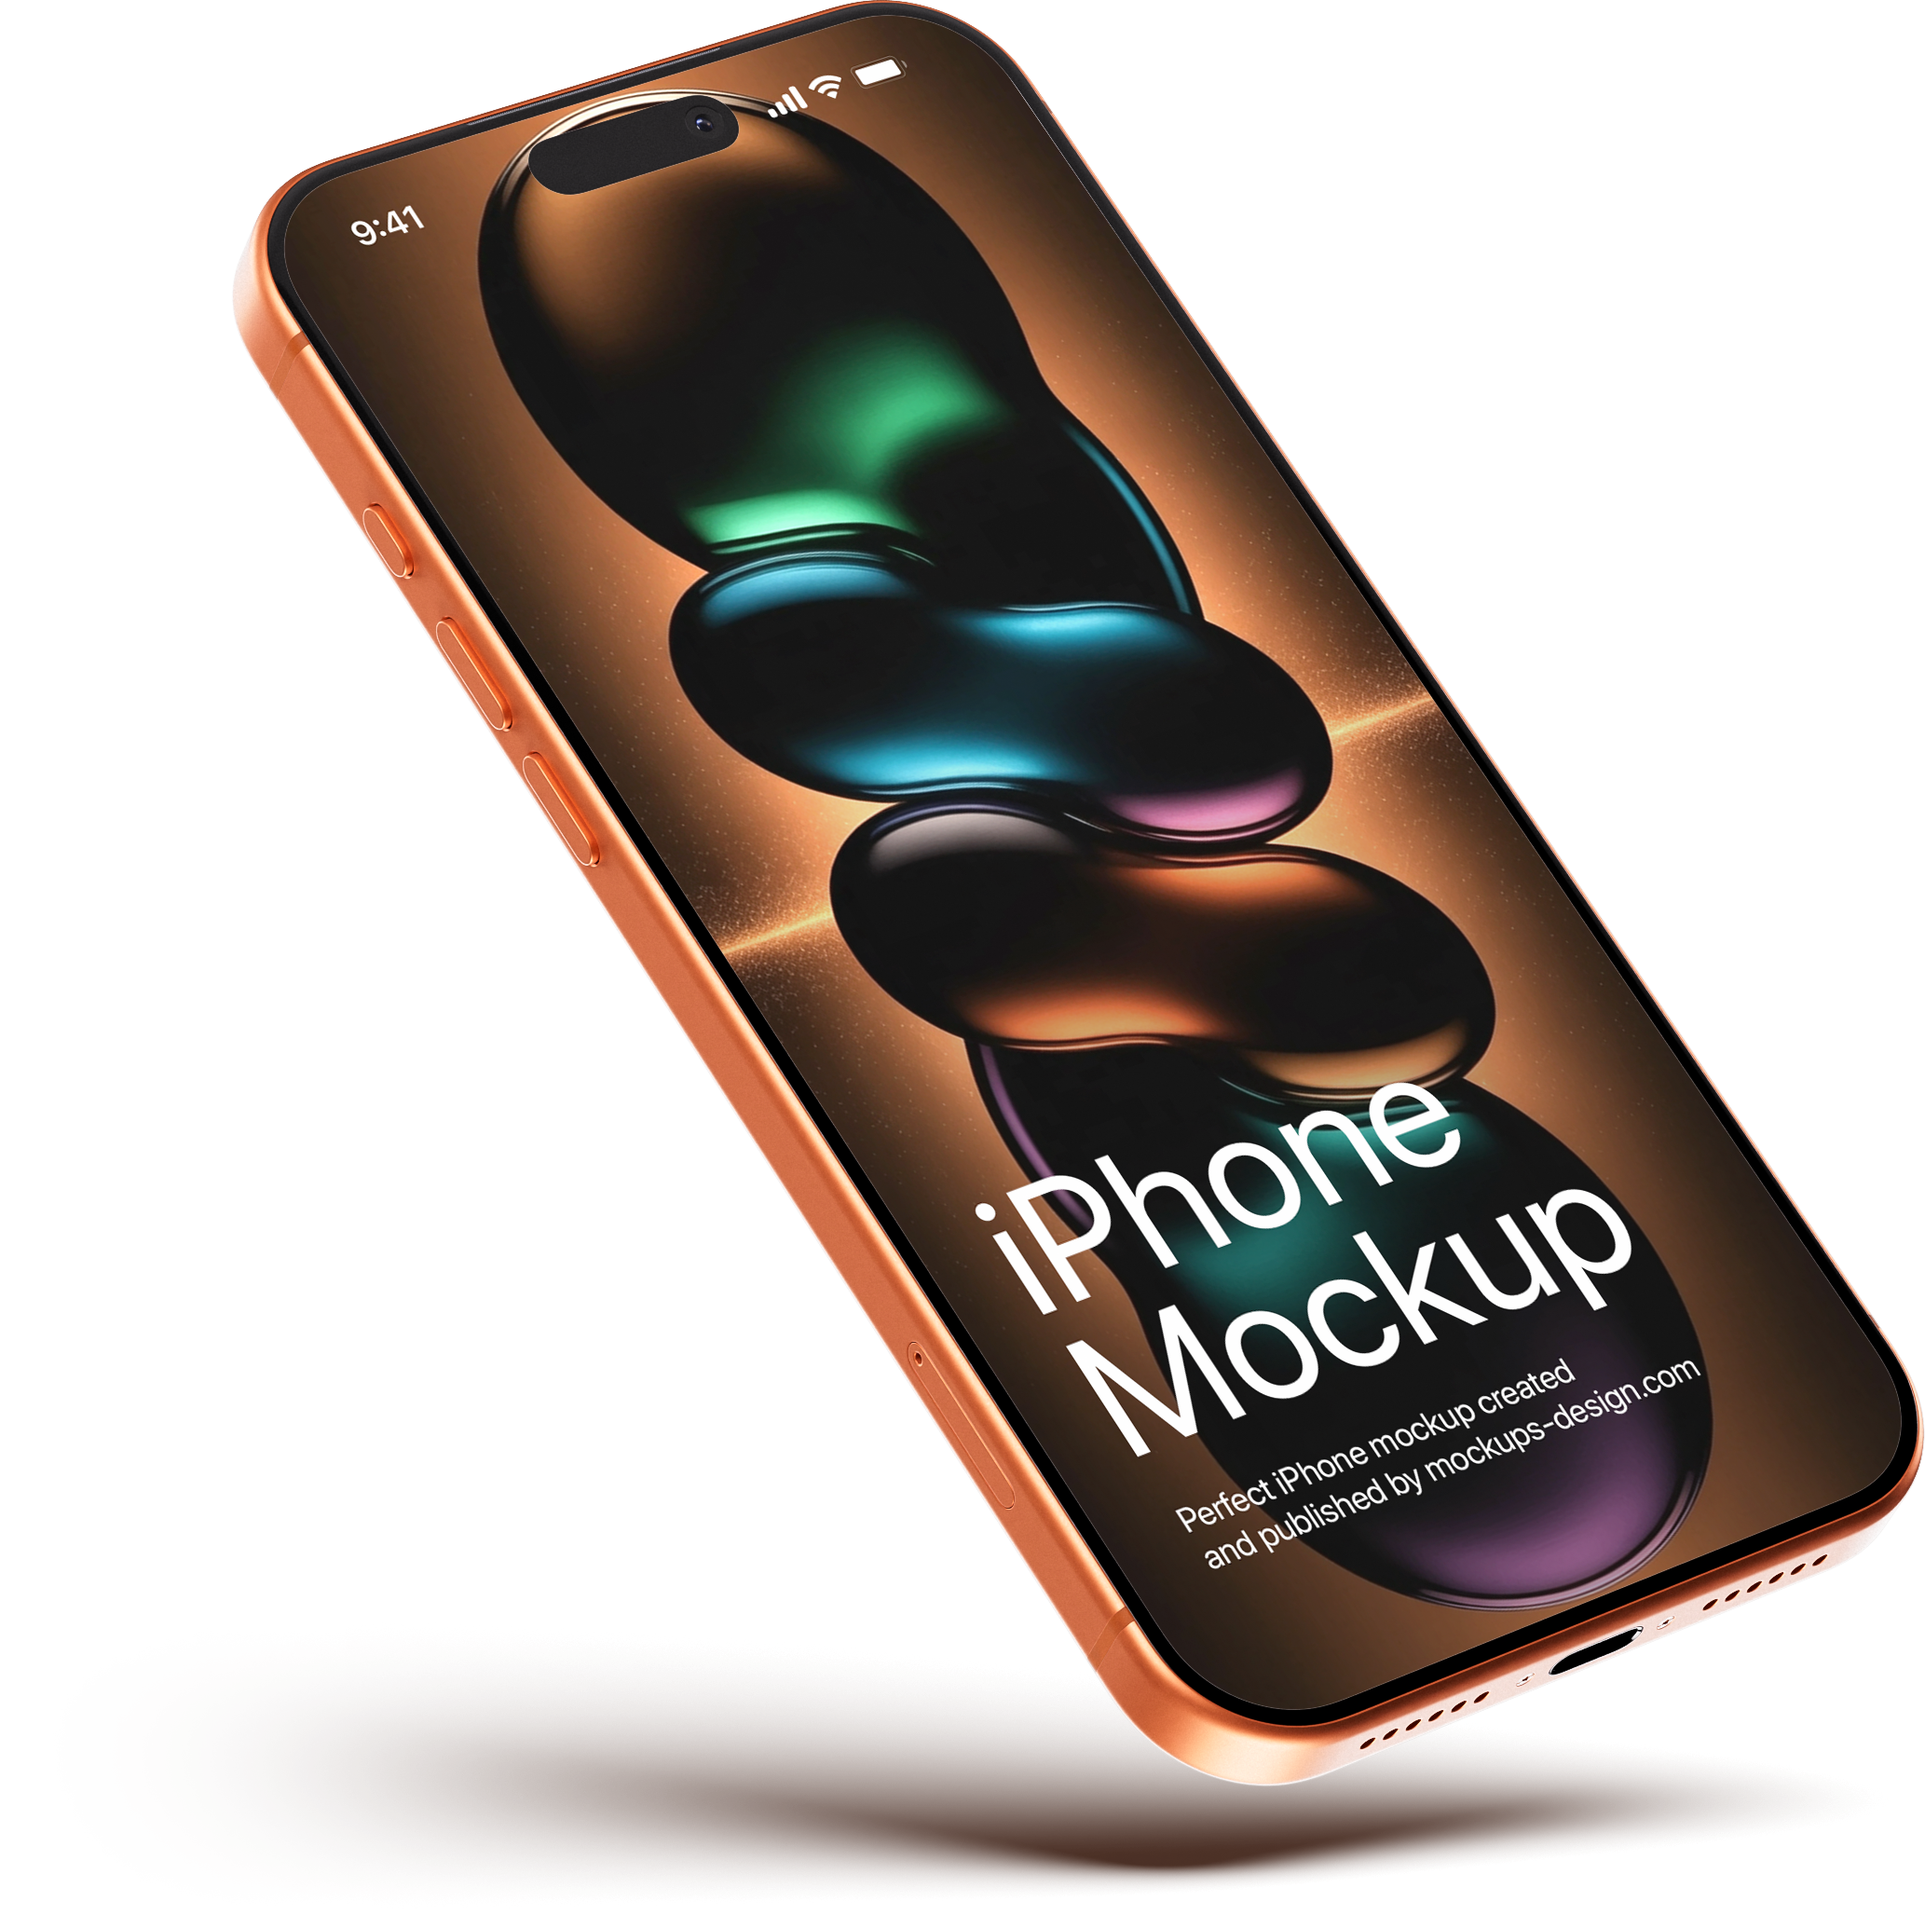
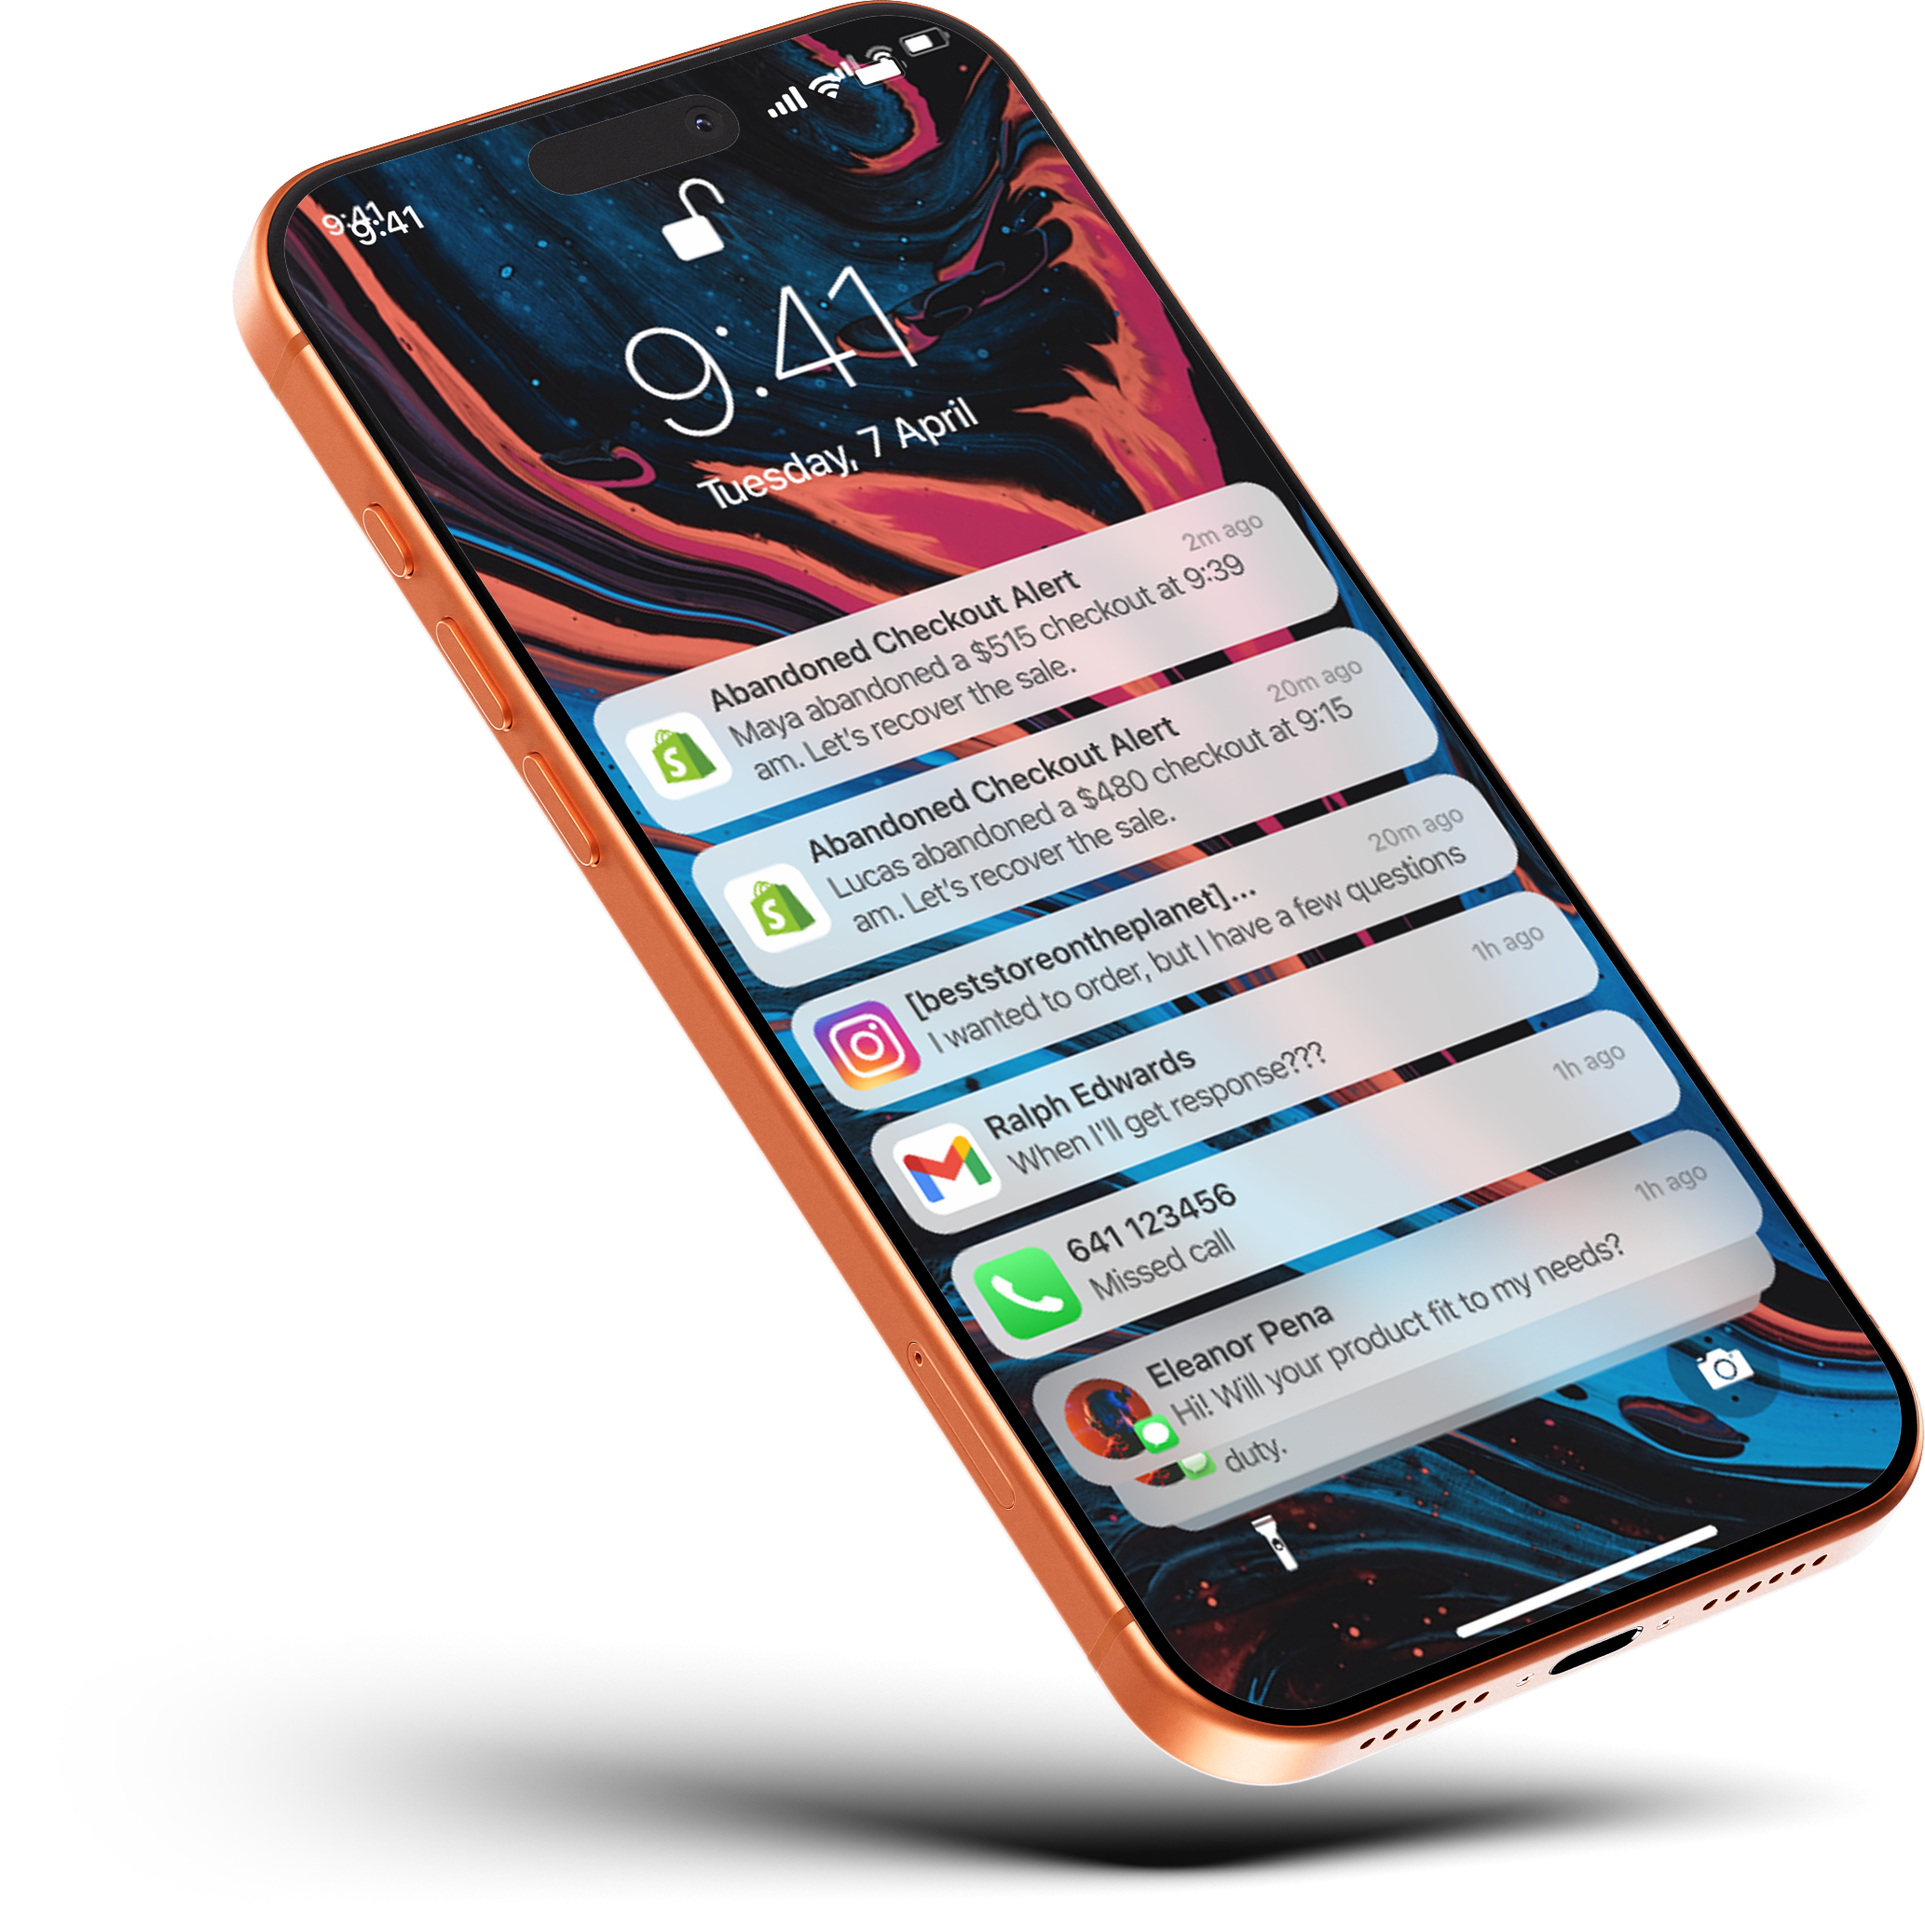
Update phone mockup image + fix booking link URL
- Replace phone-mockup.png with notification overload image (9:41 lock screen)
- Update BOOKING_LINK to https://zcal.co/carelessmaks/free-audit

diff --git a/lib/content.ts b/lib/content.ts
@@ -2,7 +2,7 @@ export type Lang = "en" | "es";
 
 const WA_NUMBER = "34641935207";
 export const WA_LINK = `https://wa.me/${WA_NUMBER}`;
-export const BOOKING_LINK = "https://zcal.co/carelessmaks/15min";
+export const BOOKING_LINK = "https://zcal.co/carelessmaks/free-audit";
 
 export const content = {
   nav: {
